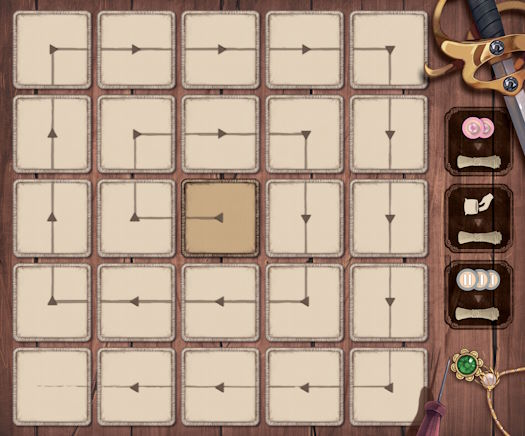
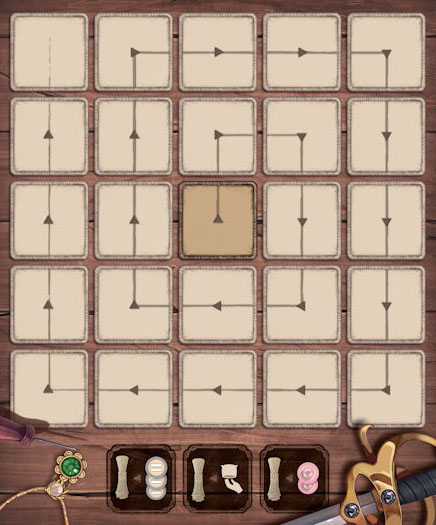
turn board & remove board tokens jighlight

diff --git a/splendorduel.css b/splendorduel.css
@@ -898,10 +898,10 @@ body > .card {
   grid-template-rows: repeat(5, 1fr);
   grid-template-columns: repeat(5, 1fr);
   background: url("img/board.jpg");
-  width: 525px;
-  height: 436px;
+  width: 436px;
+  height: 525px;
   padding: 10px;
-  padding-right: 93px;
+  padding-bottom: 93px;
   box-sizing: border-box;
   box-shadow: 1px 1px 2px 1px rgba(0, 0, 0, 0.5);
   border-radius: 4px;
@@ -910,21 +910,24 @@ body > .card {
   width: 80px;
   height: 80px;
 }
+#table-center #board-wrapper #board.selectable {
+  animation: selectable-card-animation 1s alternate infinite ease-in-out;
+}
 #table-center #board-wrapper .board-tooltip-zone {
   position: absolute;
-  right: 11px;
+  bottom: 11px;
   width: 70px;
   height: 70px;
   border-radius: 8px;
 }
 #table-center #board-wrapper .board-tooltip-zone[data-index="0"] {
-  top: 106px;
+  right: 106px;
 }
 #table-center #board-wrapper .board-tooltip-zone[data-index="1"] {
-  top: 186px;
+  right: 186px;
 }
 #table-center #board-wrapper .board-tooltip-zone[data-index="2"] {
-  top: 260px;
+  right: 260px;
 }
 #table-center #table-cards {
   display: grid;

diff --git a/src/_table-center.scss b/src/_table-center.scss
@@ -44,10 +44,10 @@
       grid-template-rows: repeat(5, 1fr);
       grid-template-columns: repeat(5, 1fr);
       background: url('img/board.jpg');
-      width: 525px;
-      height: 436px;
+      width: 436px;
+      height: 525px;
       padding: 10px;
-      padding-right: 93px;
+      padding-bottom: 93px;
       box-sizing: border-box;
       box-shadow: 1px 1px 2px 1px rgba(0, 0, 0, 0.5);
       border-radius: 4px;
@@ -56,18 +56,22 @@
         width: 80px;
         height: 80px;
       }
+
+      &.selectable {
+        animation: selectable-card-animation 1s alternate infinite ease-in-out;
+      }
     }
 
     .board-tooltip-zone {
       position: absolute;
-      right: 11px;
+      bottom: 11px;
       width: 70px;
       height: 70px;
       border-radius: 8px;
 
-      &[data-index="0"] { top: 106px; }
-      &[data-index="1"] { top: 186px; }
-      &[data-index="2"] { top: 260px; }
+      &[data-index="0"] { right: 106px; }
+      &[data-index="1"] { right: 186px; }
+      &[data-index="2"] { right: 260px; }
     }
   }
 

diff --git a/splendorduel.js b/splendorduel.js
@@ -2134,6 +2134,7 @@ var TokenBoard = /** @class */ (function () {
             slotsIds: slotsIds,
             mapCardToSlot: function (card) { return JSON.stringify([card.row, card.column]); },
             gap: '0',
+            selectableCardClass: 'no-visible-selection',
         });
         this.stock.addCards(board);
         this.stock.onSelectionChange = function (selection, lastChange) { return _this.onTokenSelectionChange(selection, lastChange); };
@@ -2501,6 +2502,7 @@ var TableCenter = /** @class */ (function () {
         if (canTakeGold === void 0) { canTakeGold = false; }
         if (max === void 0) { max = 3; }
         if (color === void 0) { color = null; }
+        //document.getElementById(`board`).classList.toggle('selectable', Boolean(selectionType));
         this.board.setSelectable(selectionType, canTakeGold, max, color);
     };
     TableCenter.prototype.reserveCard = function (args) {

diff --git a/src/token-board.ts b/src/token-board.ts
@@ -24,6 +24,7 @@ class TokenBoard {
             slotsIds,
             mapCardToSlot: card => JSON.stringify([card.row, card.column]),
             gap: '0',
+            selectableCardClass: 'no-visible-selection',
         });
         this.stock.addCards(board);
         this.stock.onSelectionChange = (selection: Token[], lastChange: Token) => this.onTokenSelectionChange(selection, lastChange);

diff --git a/src/table-center.ts b/src/table-center.ts
@@ -74,6 +74,7 @@ class TableCenter {
     }
     
     public setBoardSelectable(selectionType: 'privileges' | 'play' | 'effect' | null, canTakeGold: boolean = false, max: number = 3, color: number = null) {
+        //document.getElementById(`board`).classList.toggle('selectable', Boolean(selectionType));
         this.board.setSelectable(selectionType, canTakeGold, max, color);
     }
     

diff --git a/modules/php/objects/token.php b/modules/php/objects/token.php
@@ -2,30 +2,30 @@
 
 const BOARD_COORDINATES = [
     1 => [3, 3],
-    2 => [3, 2],
-    3 => [2, 2],
-    4 => [2, 3],
-    5 => [2, 4],
-    6 => [3, 4],
-    7 => [4, 4],
-    8 => [4, 3],
-    9 => [4, 2],
-    10 => [4, 1],
-    11 => [3, 1],
-    12 => [2, 1],
-    13 => [1, 1],
-    14 => [1, 2],
-    15 => [1, 3],
-    16 => [1, 4],
-    17 => [1, 5],
-    18 => [2, 5],
-    19 => [3, 5],
-    20 => [4, 5],
-    21 => [5, 5],
-    22 => [5, 4],
-    23 => [5, 3],
-    24 => [5, 2],
-    25 => [5, 1],
+    2 => [2, 3],
+    3 => [2, 4],
+    4 => [3, 4],
+    5 => [4, 4],
+    6 => [4, 3],
+    7 => [4, 2],
+    8 => [3, 2],
+    9 => [2, 2],
+    10 => [1, 2],
+    11 => [1, 3],
+    12 => [1, 4],
+    13 => [1, 5],
+    14 => [2, 5],
+    15 => [3, 5],
+    16 => [4, 5],
+    17 => [5, 5],
+    18 => [5, 4],
+    19 => [5, 3],
+    20 => [5, 2],
+    21 => [5, 1],
+    22 => [4, 1],
+    23 => [3, 1],
+    24 => [2, 1],
+    25 => [1, 1],
 ];
 
 class Token {
